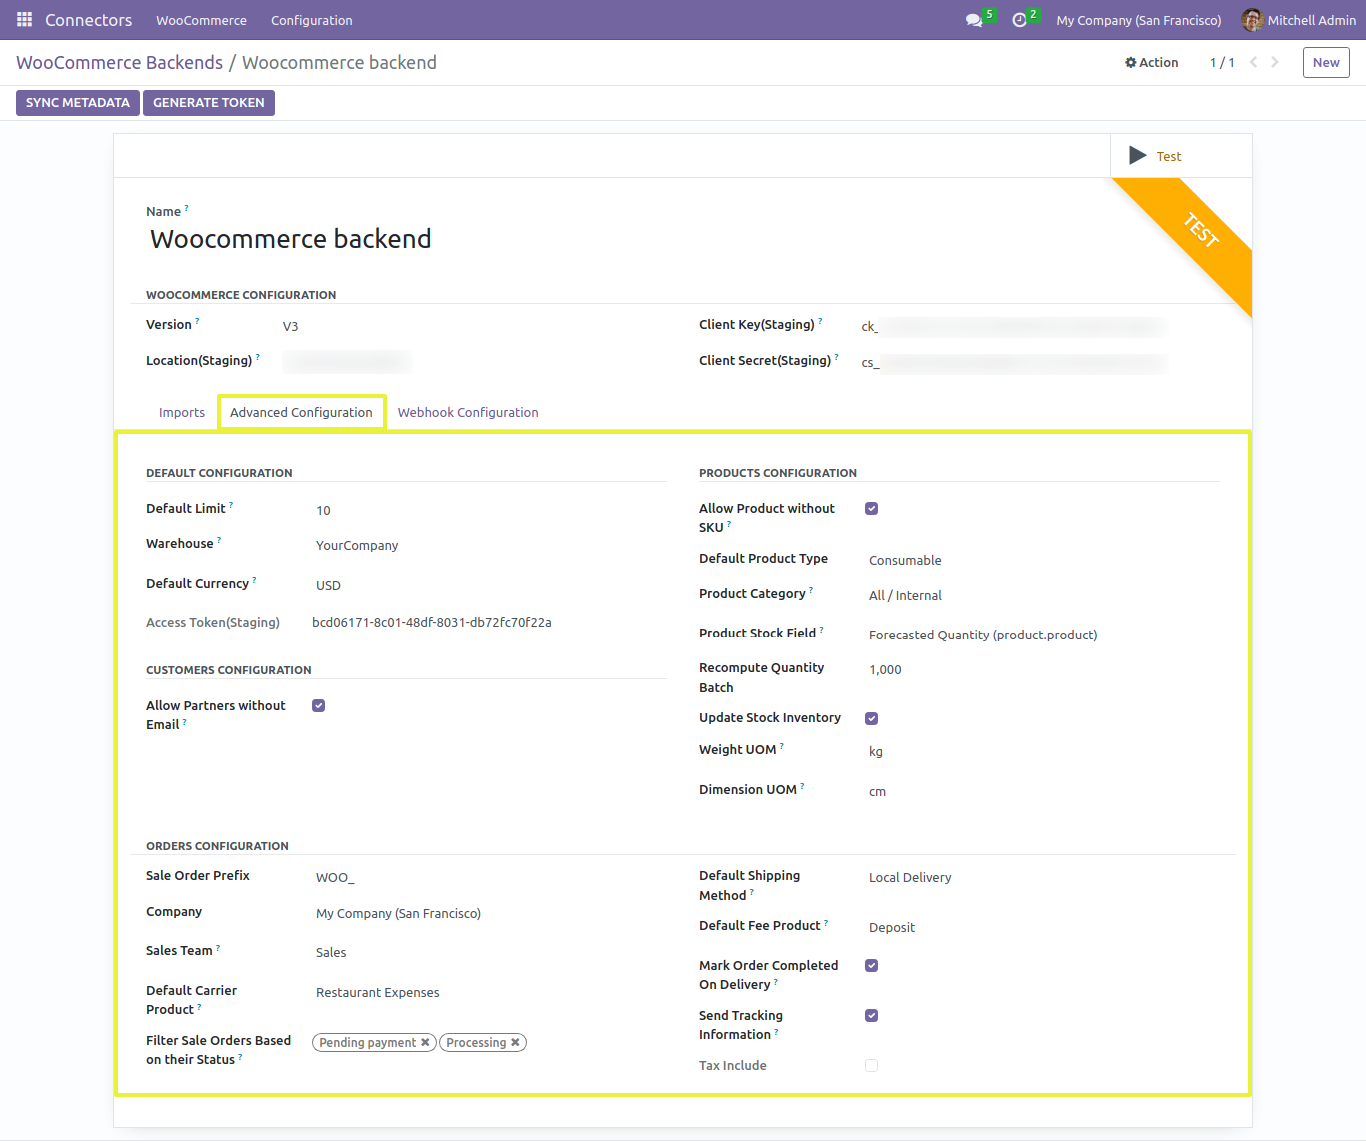
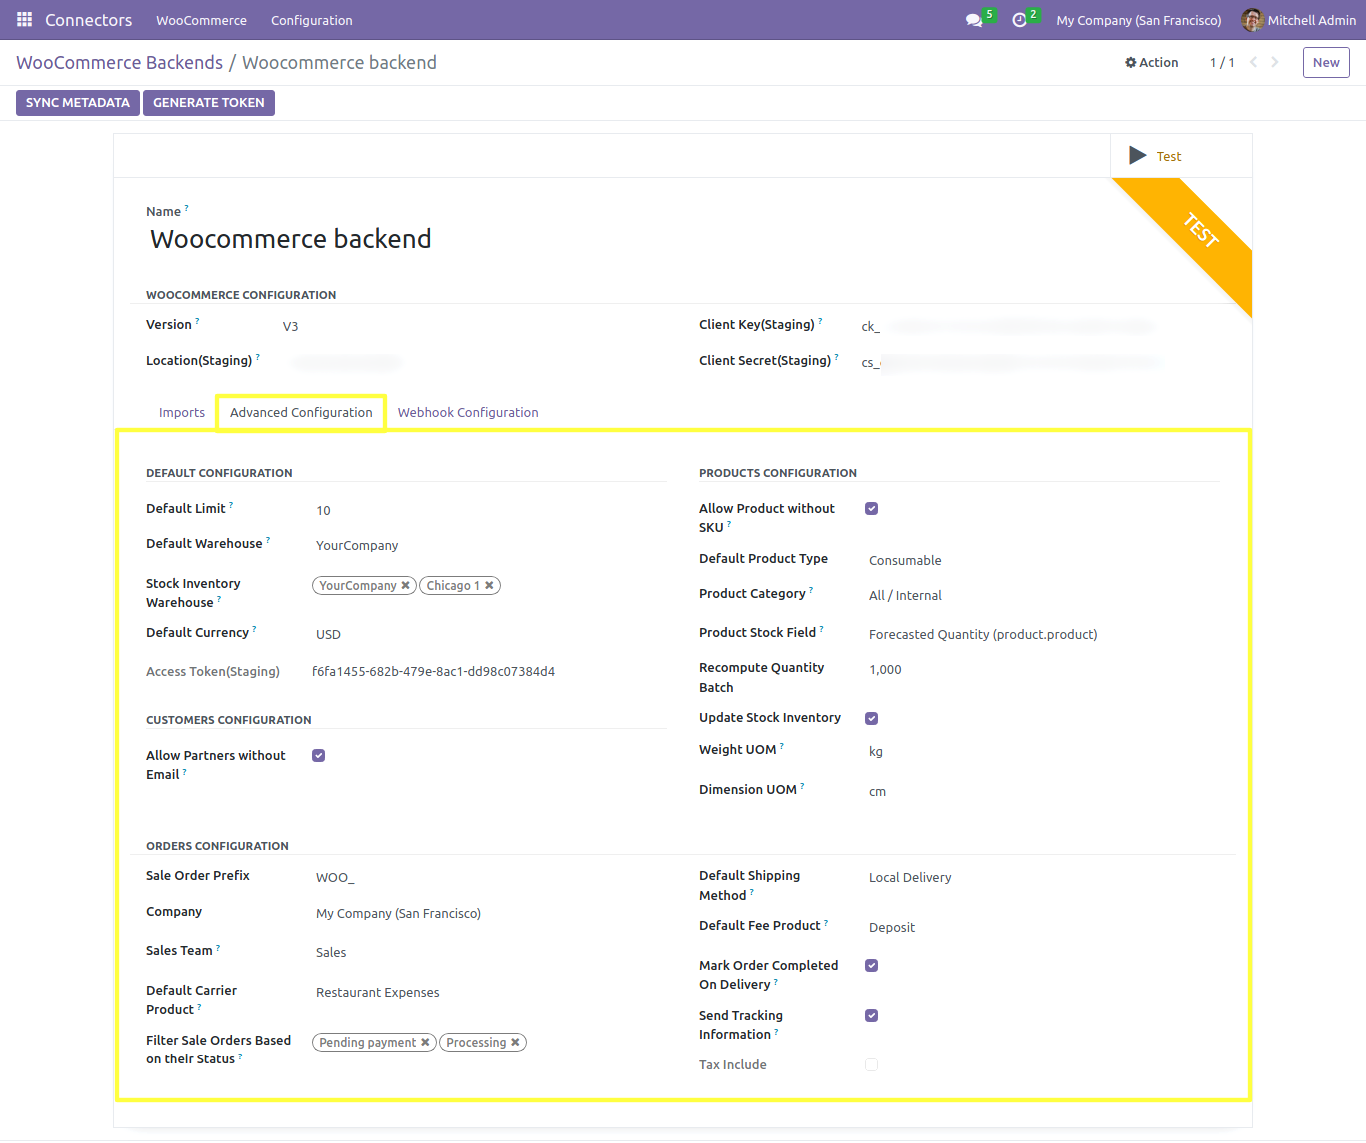
[RELEASE] 16.0.6.0.2

diff --git a/bad_connector_woocommerce/static/description/index.html b/bad_connector_woocommerce/static/description/index.html
@@ -161,6 +161,7 @@
                         <li>Exporting Sale order status and Tracking Information to Woocommerce.</li>
                         <li>Send Refund Information from Odoo to Woocommerce.</li>
                         <li>Integration with Webhook functionality,for managing both Products and Orders.</li>
+                        <li>Multi-Warehouse Support.</li>
                     </ul>
                 </div>
             </div>

diff --git a/bad_connector_woocommerce/models/product/common.py b/bad_connector_woocommerce/models/product/common.py
@@ -124,7 +124,7 @@ class WooProductProduct(models.Model):
     stock_management = fields.Boolean(readonly=True)
     woo_product_qty = fields.Float(
         string="Computed Quantity",
-        help="""Last computed quantity to send " "on WooCommerce.""",
+        help="""Last computed quantity to send on WooCommerce.""",
     )
     downloadable_product = fields.Boolean(readonly=True)
     woo_downloadable_product_ids = fields.One2many(
@@ -166,18 +166,24 @@ class WooProductProduct(models.Model):
             stock_field = backend.product_stock_field_id.name
         else:
             stock_field = "virtual_available"
-        location = backend.warehouse_id.lot_stock_id
+
         product_fields = ["woo_product_qty", stock_field]
         if read_fields:
             product_fields += read_fields
-        self_with_location = self.sudo().with_context(location=location.id)
-        for chunk_ids in utils.chunks(products.ids, backend.recompute_qty_step):
-            records = self_with_location.browse(chunk_ids)
-            for product in records:
-                new_qty = self._woo_qty(product, backend, location, stock_field)
-                if not new_qty != product["woo_product_qty"]:
-                    continue
-                product.woo_product_qty = new_qty
+        warehouse_product_qty = {}
+        warehouses = backend.stock_inventory_warehouse_ids
+        for warehouse in warehouses:
+            location = warehouse.lot_stock_id
+            self_with_location = self.sudo().with_context(location=location.id)
+            for chunk_ids in utils.chunks(products.ids, backend.recompute_qty_step):
+                records = self_with_location.browse(chunk_ids)
+                for product in records:
+                    new_qty = self._woo_qty(product, backend, location, stock_field)
+                    warehouse_product_qty.setdefault(product, 0)
+                    warehouse_product_qty[product] += new_qty
+        for product, total_qty in warehouse_product_qty.items():
+            if total_qty != product.woo_product_qty:
+                product.woo_product_qty = total_qty
 
     def _woo_qty(self, product, backend, location, stock_field):
         """

diff --git a/bad_connector_woocommerce/tests/test_import_product.py b/bad_connector_woocommerce/tests/test_import_product.py
@@ -24,6 +24,7 @@ class TestImportProduct(BaseWooTestCase):
         """Test Assertions for Product"""
         external_id = "50"
         quantity_to_add = 10
+        quantity_to_add_1 = 5
         with recorder.use_cassette("import_woo_product_product"):
             self.env["woo.product.product"].import_record(
                 external_id=external_id, backend=self.backend
@@ -114,16 +115,32 @@ class TestImportProduct(BaseWooTestCase):
                 {
                     "product_id": product2.id,
                     "inventory_quantity": quantity_to_add,
-                    "location_id": self.backend.warehouse_id.lot_stock_id.id,
+                    "location_id": self.backend.stock_inventory_warehouse_ids[
+                        0
+                    ].lot_stock_id.id,
                 }
             )
         )
         stock_quant.action_apply_inventory()
+        stock_quant_1 = (
+            self.env["stock.quant"]
+            .with_context(inventory_mode=True)
+            .create(
+                {
+                    "product_id": product2.id,
+                    "inventory_quantity": quantity_to_add_1,
+                    "location_id": self.backend.stock_inventory_warehouse_ids[
+                        1
+                    ].lot_stock_id.id,
+                }
+            )
+        )
+        stock_quant_1.action_apply_inventory()
         with recorder.use_cassette("export_stock_qty"):
             product2.update_stock_qty()
         self.assertEqual(
             product2.woo_bind_ids.woo_product_qty,
-            10,
+            15,
             "Product is Not Exported in WooCommerce.",
         )
 

diff --git a/bad_connector_woocommerce/tests/test_woo_backend.py b/bad_connector_woocommerce/tests/test_woo_backend.py
@@ -12,6 +12,9 @@ class BaseWooTestCase(tests.HttpCase, TransactionComponentCase):
         super().setUp()
         self.backend_record = self.env["woo.backend"]
         warehouse = self.env.ref("stock.warehouse0")
+        warehouse_1 = self.env["stock.warehouse"].create(
+            {"name": "Warehouse 1", "code": "WIL"}
+        )
         woo_status = self.env["woo.sale.status"].search(
             [("code", "=", "processing")], limit=1
         )
@@ -37,6 +40,9 @@ class BaseWooTestCase(tests.HttpCase, TransactionComponentCase):
                 "warehouse_id": warehouse.id,
                 "update_stock_inventory": True,
                 "test_access_token": "d4ea64d3-8f85-4955-be49-4aeb29151801",
+                "stock_inventory_warehouse_ids": [
+                    (6, 0, [warehouse.id, warehouse_1.id])
+                ],
             }
         )
         self.backend_data = self.env["woo.backend"].create(
@@ -62,6 +68,9 @@ class BaseWooTestCase(tests.HttpCase, TransactionComponentCase):
                 "update_stock_inventory": True,
                 "access_token": "d4ea64d3-8f85-4955-be49-4aeb29151801",
                 "woo_sale_status_ids": [(6, 0, [woo_status.id])],
+                "stock_inventory_warehouse_ids": [
+                    (6, 0, [warehouse.id, warehouse_1.id])
+                ],
             }
         )
         self.woocommerce_product_payload = {

diff --git a/bad_connector_woocommerce/models/woo_backend/common.py b/bad_connector_woocommerce/models/woo_backend/common.py
@@ -164,8 +164,9 @@ class WooBackend(models.Model):
     update_stock_inventory = fields.Boolean()
     warehouse_id = fields.Many2one(
         comodel_name="stock.warehouse",
-        string="Warehouse",
-        help="Warehouse used to compute the " "stock quantities.",
+        string="Default Warehouse",
+        check_company=True,
+        help="Warehouse used Sale Order.",
     )
     product_stock_field_id = fields.Many2one(
         comodel_name="ir.model.fields",
@@ -186,6 +187,11 @@ class WooBackend(models.Model):
         string="Webhook Configurations",
         readonly=True,
         compute="_compute_webhook_config",
+    )
+    stock_inventory_warehouse_ids = fields.Many2many(
+        comodel_name="stock.warehouse",
+        string="Stock Inventory Warehouse",
+        help="Warehouse used to compute the stock quantities.",
     )
 
     @api.depends("test_mode", "test_access_token", "access_token")
@@ -303,8 +309,9 @@ class WooBackend(models.Model):
 
     @api.onchange("company_id")
     def _onchange_company(self):
-        """Set sale team id False everytime company_id is changed"""
+        """Set sale team id and warehouse id False everytime company_id is changed"""
         self.sale_team_id = False
+        self.warehouse_id = False
 
     def get_filters(self, model=None):
         """New Method: Returns the filter"""

diff --git a/bad_connector_woocommerce/models/sale_order/importer.py b/bad_connector_woocommerce/models/sale_order/importer.py
@@ -313,6 +313,17 @@ class WooSaleOrderImportMapper(Component):
             else {}
         )
 
+    @mapping
+    def warehouse_id(self, record):
+        """Mapping of warehouse"""
+        warehouse = self.backend_record.warehouse_id
+        if not warehouse:
+            raise MappingError(
+                _("Warehouse is not selected in WooCommerce backend : %s")
+                % self.backend_record.name
+            )
+        return {"warehouse_id": warehouse.id}
+
 
 class WooSaleOrderImporter(Component):
     _name = "woo.sale.order.importer"

diff --git a/bad_connector_woocommerce/__manifest__.py b/bad_connector_woocommerce/__manifest__.py
@@ -1,6 +1,6 @@
 {
     "name": "Odoo Woocommerce Connector",
-    "version": "16.0.6.0.0",
+    "version": "16.0.6.0.2",
     "category": "Connector",
     "author": "BizzAppDev Systems Pvt. Ltd.",
     "website": "http://www.bizzappdev.com",
@@ -44,6 +44,6 @@
     ],
     "images": ["static/description/banner.gif"],
     "external_dependencies": {
-        "python": ["woocommerce"],
+        "python": ["woocommerce", "vcrpy"],
     },
 }

diff --git a/setup/stock_return_reason/setup.py b/setup/stock_return_reason/setup.py
@@ -1,0 +1,6 @@
+import setuptools
+
+setuptools.setup(
+    setup_requires=['setuptools-odoo'],
+    odoo_addon=True,
+)

diff --git a/bad_connector_woocommerce/README.rst b/bad_connector_woocommerce/README.rst
@@ -16,7 +16,7 @@
 * Add "Import Partners","Import Products","Import Product Templates","Import Product Attributes","Import Product Category", "Import Orders", "Sync Metadata", "Import Taxes", "Update Stock Inventory" and "Export Refunds" at backend level.
 * Required field to Import the Partners,Product Templates,Products,Product Attributes,Taxes,Product Tags,Product Category,Update Stock Inventory, Sale Orders and Export Sale Order Refunds are Location,Client Id,Client Secret,Product Category,Company and Warehouse.
 * Add Button of "GENERATE TOKEN" to generate the "Access Token".
-
+* Added multi-warehouse functionality to manages stock.
 
 **Author**
 **********
